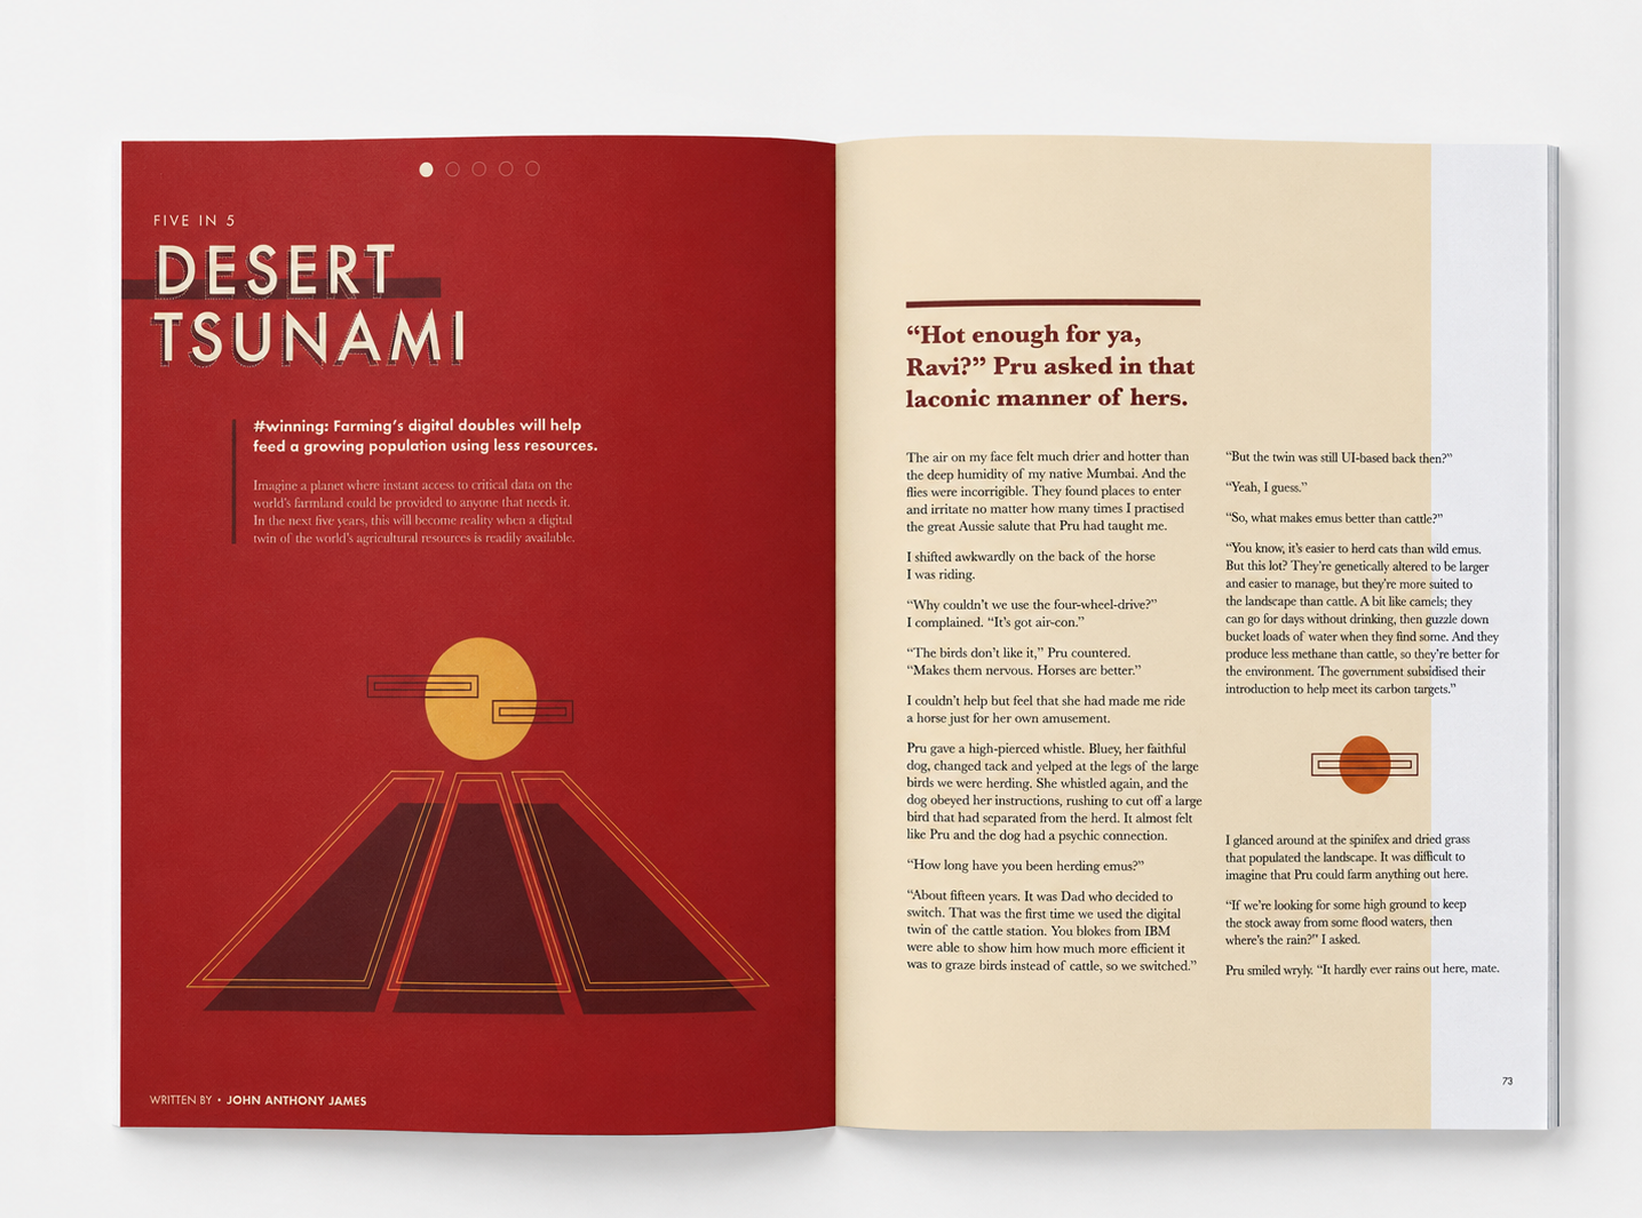
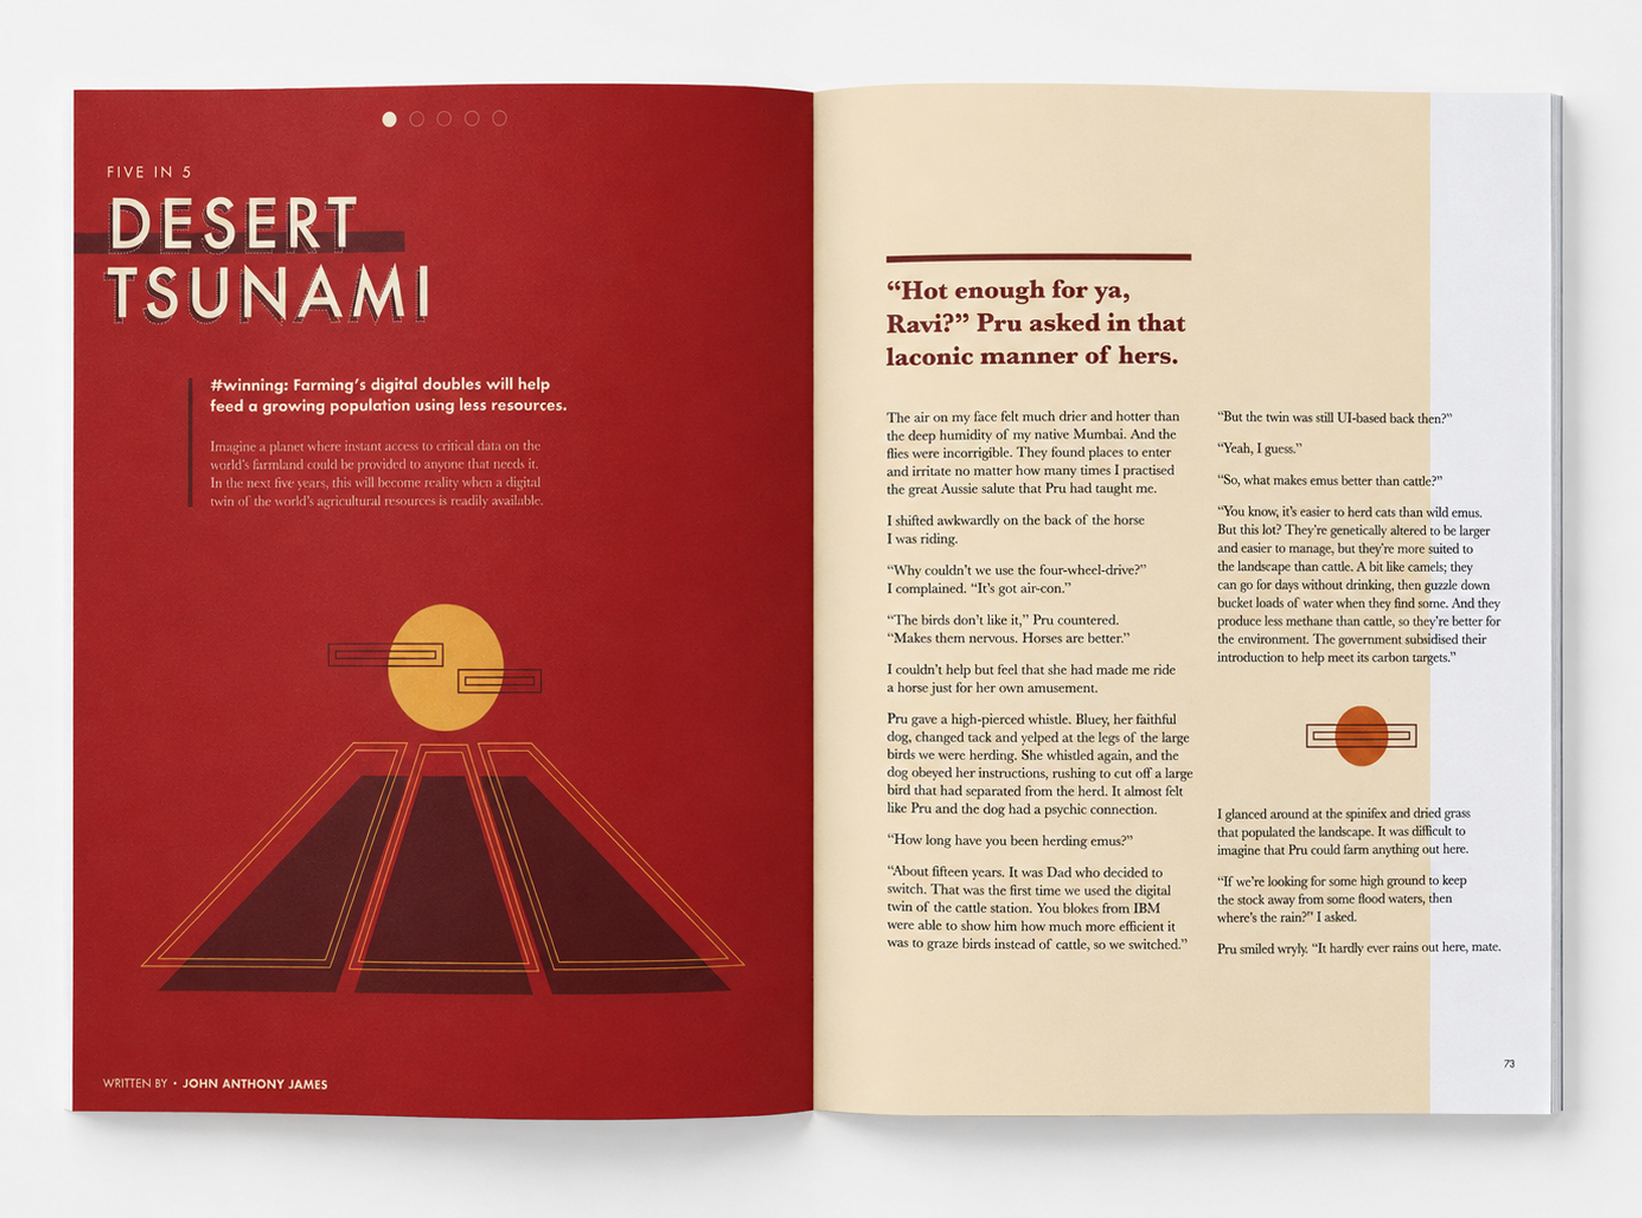
Add lightbox for gallery images
Click-through modal viewer for the freelance project gallery, with
keyboard nav (arrows, Esc), backdrop-click to close, and a fixed
790x580 stage so every image displays at a consistent size regardless
of source resolution. Also swaps in the re-centered Desert Tsunami
spread from Figma.

Changed region(s): [[0.0311, 0.0624, 0.9629, 0.936]]

diff --git a/src/components/Gallery.jsx b/src/components/Gallery.jsx
@@ -1,56 +1,68 @@
+import { useState } from 'react'
+import Lightbox from './Lightbox'
+
+const images = [
+  { src: '/images/gallery-coffeebags.png', alt: 'Talisman Coffee bags, three roast varieties' },
+  { src: '/images/gallery-lotlizard-tin.png', alt: 'Lot Lizard Video branded tin packaging' },
+  { src: '/images/gallery-lotlizard-tees.png', alt: 'Lot Lizard Video branded t-shirts' },
+  { src: '/images/gallery-emotions-spread.png', alt: 'Emotions magazine spread, watercolor illustration' },
+  { src: '/images/gallery-valines-sauce.png', alt: "Valine's Famous Cocktail Sauce jar" },
+  { src: '/images/gallery-desert-tsunami.png', alt: 'Desert Tsunami magazine spread' },
+]
+
 export default function Gallery() {
+  const [openIndex, setOpenIndex] = useState(null)
+
   return (
     <section className="w-full">
       <div className="mx-auto flex max-w-[1440px] flex-col gap-6 px-6 pb-6 md:gap-8 md:px-12 md:pb-12 lg:px-24 lg:pb-24">
         <div className="flex w-full flex-col items-start gap-6 md:flex-row md:gap-8">
-          <div className="aspect-[395/288] w-full overflow-hidden md:flex-1">
-            <img
-              src="/images/gallery-coffeebags.png"
-              alt="Talisman Coffee bags, three roast varieties"
-              className="h-full w-full object-cover"
-            />
-          </div>
-          <div className="aspect-[395/288] w-full overflow-hidden md:flex-1">
-            <img
-              src="/images/gallery-lotlizard-tin.png"
-              alt="Lot Lizard Video branded tin packaging"
-              className="h-full w-full object-cover"
-            />
-          </div>
-          <div className="aspect-[395/288] w-full overflow-hidden md:flex-1">
-            <img
-              src="/images/gallery-lotlizard-tees.png"
-              alt="Lot Lizard Video branded t-shirts"
-              className="h-full w-full object-cover"
-            />
-          </div>
+          {images.slice(0, 3).map((img, i) => (
+            <button
+              key={img.src}
+              type="button"
+              onClick={() => setOpenIndex(i)}
+              aria-label={`View ${img.alt} larger`}
+              className="aspect-[395/288] w-full cursor-zoom-in overflow-hidden md:flex-1"
+            >
+              <img src={img.src} alt={img.alt} className="h-full w-full object-cover" />
+            </button>
+          ))}
         </div>
         <div className="flex w-full flex-col items-start gap-6 md:flex-row md:gap-8">
           <div className="flex w-full flex-col gap-6 md:flex-[395] md:gap-8">
-            <div className="aspect-[395/289] w-full overflow-hidden">
-              <img
-                src="/images/gallery-emotions-spread.png"
-                alt="Emotions magazine spread, watercolor illustration"
-                className="h-full w-full object-cover"
-              />
-            </div>
-            <div className="aspect-[395/289] w-full overflow-hidden">
-              <img
-                src="/images/gallery-valines-sauce.png"
-                alt="Valine's Famous Cocktail Sauce jar"
-                className="h-full w-full object-cover"
-              />
-            </div>
+            {images.slice(3, 5).map((img, i) => (
+              <button
+                key={img.src}
+                type="button"
+                onClick={() => setOpenIndex(3 + i)}
+                aria-label={`View ${img.alt} larger`}
+                className="aspect-[395/289] w-full cursor-zoom-in overflow-hidden"
+              >
+                <img src={img.src} alt={img.alt} className="h-full w-full object-cover" />
+              </button>
+            ))}
           </div>
-          <div className="aspect-[821/609] w-full overflow-hidden bg-border-soft md:flex-[821]">
-            <img
-              src="/images/gallery-desert-tsunami.png"
-              alt="Desert Tsunami magazine spread"
-              className="h-full w-full object-cover"
-            />
-          </div>
+          <button
+            type="button"
+            onClick={() => setOpenIndex(5)}
+            aria-label={`View ${images[5].alt} larger`}
+            className="aspect-[821/609] w-full cursor-zoom-in overflow-hidden bg-border-soft md:flex-[821]"
+          >
+            <img src={images[5].src} alt={images[5].alt} className="h-full w-full object-cover" />
+          </button>
         </div>
       </div>
+
+      {openIndex !== null && (
+        <Lightbox
+          images={images}
+          index={openIndex}
+          onClose={() => setOpenIndex(null)}
+          onNext={() => setOpenIndex((i) => (i + 1) % images.length)}
+          onPrev={() => setOpenIndex((i) => (i - 1 + images.length) % images.length)}
+        />
+      )}
     </section>
   )
 }

diff --git a/src/components/Lightbox.jsx b/src/components/Lightbox.jsx
@@ -1,0 +1,84 @@
+import { useEffect, useRef } from 'react'
+
+export default function Lightbox({ images, index, onClose, onNext, onPrev }) {
+  const closeButtonRef = useRef(null)
+
+  useEffect(() => {
+    const previouslyFocused = document.activeElement
+    closeButtonRef.current?.focus()
+    document.body.style.overflow = 'hidden'
+
+    function handleKeyDown(e) {
+      if (e.key === 'Escape') onClose()
+      if (e.key === 'ArrowRight') onNext()
+      if (e.key === 'ArrowLeft') onPrev()
+    }
+    document.addEventListener('keydown', handleKeyDown)
+
+    return () => {
+      document.removeEventListener('keydown', handleKeyDown)
+      document.body.style.overflow = ''
+      if (previouslyFocused instanceof HTMLElement) previouslyFocused.focus()
+    }
+    // eslint-disable-next-line react-hooks/exhaustive-deps
+  }, [])
+
+  const image = images[index]
+
+  return (
+    <div
+      className="fixed inset-0 z-50 flex items-center justify-center bg-ink/95 px-6 py-16 md:px-16"
+      role="dialog"
+      aria-modal="true"
+      aria-label="Image viewer"
+      onClick={onClose}
+    >
+      <button
+        ref={closeButtonRef}
+        type="button"
+        onClick={onClose}
+        aria-label="Close"
+        className="absolute top-6 right-6 text-[32px] leading-none text-paper transition-opacity hover:opacity-70"
+      >
+        &times;
+      </button>
+
+      <button
+        type="button"
+        onClick={(e) => {
+          e.stopPropagation()
+          onPrev()
+        }}
+        aria-label="Previous image"
+        className="absolute top-1/2 left-2 -translate-y-1/2 p-2 text-[36px] text-paper transition-opacity hover:opacity-70 md:left-8"
+      >
+        &#8249;
+      </button>
+
+      <div className="flex h-full max-h-[580px] w-full max-w-[790px] items-center justify-center">
+        <img
+          src={image.src}
+          alt={image.alt}
+          className="h-full w-full object-contain"
+          onClick={(e) => e.stopPropagation()}
+        />
+      </div>
+
+      <button
+        type="button"
+        onClick={(e) => {
+          e.stopPropagation()
+          onNext()
+        }}
+        aria-label="Next image"
+        className="absolute top-1/2 right-2 -translate-y-1/2 p-2 text-[36px] text-paper transition-opacity hover:opacity-70 md:right-8"
+      >
+        &#8250;
+      </button>
+
+      <p className="absolute bottom-6 left-1/2 -translate-x-1/2 text-[14px] text-paper">
+        {index + 1} / {images.length}
+      </p>
+    </div>
+  )
+}